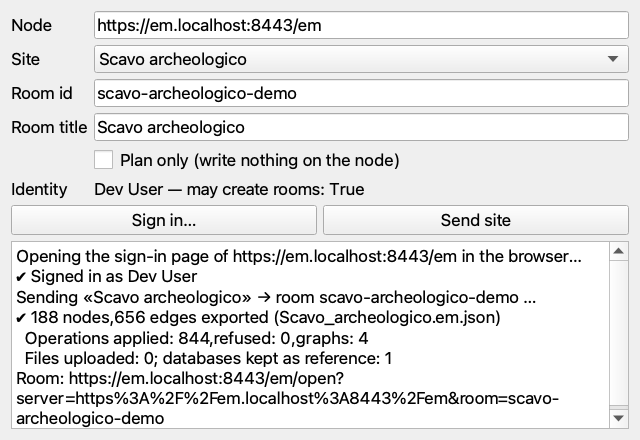
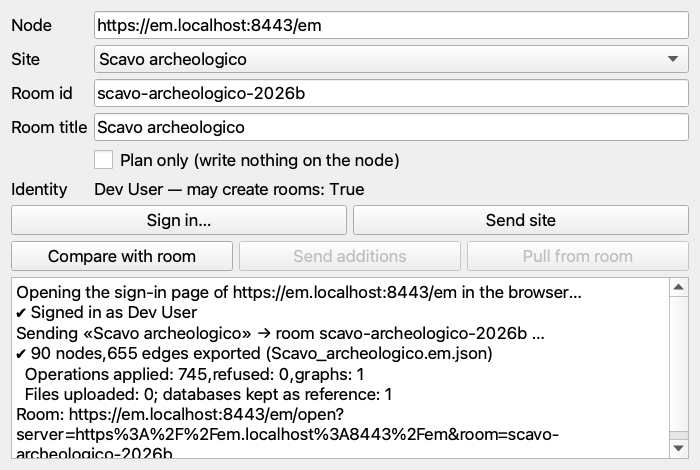
docs(stratigraph): tutorial 32 — grafo unico, confronto con la stanza, invio delle aggiunte e pull, nelle dieci lingue
Nella sezione «Inviare un sito a una stanza StratiGraph»:
- il primo punto di «Cosa viene inviato» diceva «un grafo per saggio»: ora
  il sito va come un solo grafo, così i rapporti fra unità di saggi
  diversi viaggiano con il resto;
- la Fig. 8 rifatta con l'invio a grafo unico sul dev-stack (90 nodi, 655
  archi, 745 operazioni applicate, 0 rifiutate), didascalia aggiornata;
- sottosezione nuova «Lavorare con una stanza che ha già dei dati»:
  Compare with room, Send additions (solo le aggiunte; un campo diverso si
  mostra e non si invia; quello che c'è solo nella stanza non si tocca),
  Pull from room (schede riconosciute per identificativo, conferma se si
  toglierebbero rapporti locali), la ricostruzione di un sito in un
  database che non lo ha e le unità CON da rigenerare con «Genera
  continuità»; Fig. 9 con un confronto vero (US nuova e definizione
  rivista nella stanza, US nuova di pyArchInit da inviare).

STRATIGRAPH_INTEGRATION.md: client API all'85%, autenticazione e rinnovo
del token fatti, riga nuova «Lettura delle modifiche dalla stanza» (con la
prova di ricostruzione: 50 unità su 51, manca solo la CON generata),
query dello stato con il confronto; mancano il feed incrementale e i
file binari dal bucket.

diff --git a/docs/tutorials/el/32_stratigraph_sync.md b/docs/tutorials/el/32_stratigraph_sync.md
@@ -235,11 +235,11 @@ $PYARCHINIT_HOME/stratigraph_sync_queue.sqlite
 
 ![Παράθυρο Send site to a room](images/32_stratigraph_sync/07_send_site_dialog.png)
 
-> **Fig. 8**: Το παράθυρο μετά τη σύνδεση και την αποστολή της θέσης-παραδείγματος σε κόμβο ανάπτυξης: 844 λειτουργίες εφαρμόστηκαν, 0 απορρίφθηκαν, η βάση δεδομένων κρατήθηκε ως αναφορά
+> **Fig. 8**: Το παράθυρο μετά τη σύνδεση και την αποστολή της θέσης-παραδείγματος σε κόμβο ανάπτυξης: 745 λειτουργίες εφαρμόστηκαν, 0 απορρίφθηκαν, η βάση δεδομένων κρατήθηκε ως αναφορά
 
 ### Τι αποστέλλεται
 
-- Ο γράφος της θέσης, ο ίδιος με την εξαγωγή Extended Matrix (οδηγός 36): ένας γράφος ανά τομή όταν η θέση έχει περισσότερες από μία.
+- Ο γράφος ολόκληρης της θέσης, ως ένας γράφος ακόμη κι όταν η θέση έχει πολλές τομές: έτσι οι σχέσεις μεταξύ μονάδων διαφορετικών τομών ταξιδεύουν μαζί με τα υπόλοιπα.
 - Τα αρχεία που αναφέρει ο γράφος ανεβαίνουν μία μόνο φορά. Η εκ νέου αποστολή της ίδιας θέσης δεν διπλασιάζει τίποτα.
 - **Τα αρχεία βάσεων δεδομένων δεν ανεβαίνουν ποτέ** (sqlite, spatialite, gpkg): στην αίθουσα μένει μόνο μια αναφορά. Οι άλλες θέσεις της βάσης σας μένουν στον υπολογιστή σας.
 - Ο κωδικός πρόσβασης δεν περνά ποτέ από το pyArchInit: πληκτρολογείται μόνο στη σελίδα του κόμβου. Το διακριτικό πρόσβασης μένει στη μνήμη και χάνεται όταν κλείσει το παράθυρο.
@@ -252,6 +252,20 @@ $PYARCHINIT_HOME/stratigraph_sync_queue.sqlite
 python scripts/stratigraph_send_site.py --db ~/pyarchinit_5/pyarchinit_DB_folder/pyarchinit_db.sqlite \
     --site "Scavo archeologico" --node https://nodo.example.org/em --room scavo-2026 --dry-run
 ```
+
+### Εργασία με αίθουσα που έχει ήδη δεδομένα
+
+Όταν στην αίθουσα δουλεύουν και άλλοι (EMStudio, StratiField, EM Tools), μετά τη σύνδεση:
+
+1. Το **Compare with room** συγκρίνει τη θέση με την αίθουσα και προς τις δύο κατευθύνσεις, χωρίς να γράψει τίποτα: τι νέο έχει η αίθουσα για το pyArchInit (νέες μονάδες, αλλαγμένοι ορισμοί, σχέσεις) και τι προσθέτει το pyArchInit στην αίθουσα.
+2. Το **Send additions** στέλνει μόνο τις προσθήκες της θέσης: νέες μονάδες και σχέσεις. Ένα πεδίο που διαφέρει εμφανίζεται αλλά δεν στέλνεται, γιατί στην αίθουσα μπορεί να είναι η πιο πρόσφατη αλλαγή ενός συναδέλφου· ό,τι υπάρχει μόνο στην αίθουσα δεν αγγίζεται ποτέ.
+3. Το **Pull from room** φέρνει την αίθουσα στα δελτία του pyArchInit (ΣΜ, ορισμοί, περιοδολόγηση, σχέσεις), αναγνωρίζοντας κάθε δελτίο από το αναγνωριστικό του. Αν το pull αφαιρούσε τοπικές σχέσεις που η αίθουσα δεν γνωρίζει, το παράθυρο τις απαριθμεί και ζητά επιβεβαίωση.
+
+Με το **Pull from room** μπορεί επίσης να ανασυσταθεί μια θέση σε βάση δεδομένων που δεν την έχει: οι μονάδες επιστρέφουν με αριθμό, τύπο, ορισμούς και περιοδολόγηση. Οι μονάδες συνέχειας (CON) δεν ταξιδεύουν: το pyArchInit τις αναπαράγει με το **Genera continuita**.
+
+![Σύγκριση με την αίθουσα](images/32_stratigraph_sync/08_compare_with_room.png)
+
+> **Fig. 9**: Η σύγκριση με μια αίθουσα όπου δούλεψαν και στο EMStudio: μια νέα ΣΜ και ένας αναθεωρημένος ορισμός στην αίθουσα, μια νέα ΣΜ του pyArchInit προς αποστολή
 
 ### Συχνά προβλήματα
 

diff --git a/docs/tutorials/ar/32_stratigraph_sync.md b/docs/tutorials/ar/32_stratigraph_sync.md
@@ -235,11 +235,11 @@ $PYARCHINIT_HOME/stratigraph_sync_queue.sqlite
 
 ![نافذة Send site to a room](images/32_stratigraph_sync/07_send_site_dialog.png)
 
-> **Fig. 8**: النافذة بعد تسجيل الدخول وإرسال الموقع النموذجي إلى عقدة تطوير: 844 عملية مطبّقة، 0 مرفوضة، وقاعدة البيانات محفوظة كإشارة
+> **Fig. 8**: النافذة بعد تسجيل الدخول وإرسال الموقع النموذجي إلى عقدة تطوير: 745 عملية مطبّقة، 0 مرفوضة، وقاعدة البيانات محفوظة كإشارة
 
 ### ما الذي يُرسل
 
-- مخطط الموقع، وهو نفسه في تصدير Extended Matrix (الدرس 36): مخطط لكل مجسّ عندما يكون للموقع أكثر من واحد.
+- مخطط الموقع كاملاً، كمخطط واحد حتى عندما يكون للموقع عدة مجسّات: هكذا تنتقل العلاقات بين وحدات من مجسّات مختلفة مع البقية.
 - الملفات التي يذكرها المخطط تُرفع مرة واحدة فقط. إعادة إرسال الموقع نفسه لا تكرر شيئاً.
 - **ملفات قواعد البيانات لا تُرفع أبداً** (sqlite وspatialite وgpkg): تبقى في الغرفة إشارة إليها فقط. تبقى المواقع الأخرى في قاعدة بياناتك على حاسوبك.
 - كلمة المرور لا تمر أبداً عبر pyArchInit: تُكتب فقط في صفحة العقدة. يبقى رمز الوصول في الذاكرة ويزول عند إغلاق النافذة.
@@ -252,6 +252,20 @@ $PYARCHINIT_HOME/stratigraph_sync_queue.sqlite
 python scripts/stratigraph_send_site.py --db ~/pyarchinit_5/pyarchinit_DB_folder/pyarchinit_db.sqlite \
     --site "Scavo archeologico" --node https://nodo.example.org/em --room scavo-2026 --dry-run
 ```
+
+### العمل مع غرفة تحتوي بيانات بالفعل
+
+عندما يعمل آخرون أيضاً في الغرفة (EMStudio وStratiField وEM Tools)، بعد تسجيل الدخول:
+
+1. يقارن **Compare with room** الموقع بالغرفة في الاتجاهين دون كتابة أي شيء: ما الجديد في الغرفة بالنسبة إلى pyArchInit (وحدات جديدة، تعريفات معدّلة، علاقات) وما يضيفه pyArchInit إلى الغرفة.
+2. يرسل **Send additions** إضافات الموقع فقط: الوحدات والعلاقات الجديدة. الحقل المختلف يُعرض ولا يُرسل، لأنه قد يكون في الغرفة التعديل الأحدث لزميل؛ وما يوجد في الغرفة وحدها لا يُمسّ أبداً.
+3. ينقل **Pull from room** الغرفة إلى بطاقات pyArchInit (الوحدات، التعريفات، التحقيب، العلاقات)، متعرّفاً على كل بطاقة بمعرّفها. وإذا كان السحب سيحذف علاقات محلية لا تعرفها الغرفة، تعرضها النافذة وتطلب التأكيد.
+
+يمكن أيضاً بواسطة **Pull from room** إعادة بناء موقع في قاعدة بيانات لا تحتويه: تعود الوحدات برقمها ونوعها وتعريفاتها وتحقيبها. وحدات الاستمرارية (CON) لا تنتقل: يعيد pyArchInit توليدها بواسطة **Genera continuita**.
+
+![المقارنة مع الغرفة](images/32_stratigraph_sync/08_compare_with_room.png)
+
+> **Fig. 9**: المقارنة مع غرفة عُمل فيها أيضاً في EMStudio: وحدة جديدة وتعريف منقّح في الغرفة، ووحدة جديدة من pyArchInit للإرسال
 
 ### مشكلات شائعة
 

diff --git a/STRATIGRAPH_INTEGRATION.md b/STRATIGRAPH_INTEGRATION.md
@@ -318,10 +318,11 @@ File: `modules/db/database_sync.py` (1290 righe)
 
 | Sotto-requisito | Stato | % | Note |
 |-----------------|-------|---|------|
-| Client API StratiGraph | `[PARZIALE]` | 60% | `modules/stratigraph/node_client.py`: `auth_config`, `whoami`, invio di un sito in una stanza. Manca la lettura delle modifiche dalla stanza (`GET …/changes`, `…/ops`) |
-| Autenticazione token-based | `[FATTO]` | 80% | Login nativo Authorization Code + PKCE sul Keycloak del nodo; manca il rinnovo automatico (vedi 3.7) |
+| Client API StratiGraph | `[FATTO]` | 85% | `modules/stratigraph/node_client.py` (accesso, invio) e `room_sync.py` (documento della stanza, confronto, aggiunte, pull). Manca il feed incrementale `GET …/changes`, `…/ops` (oggi si rilegge il documento) |
+| Autenticazione token-based | `[FATTO]` | 100% | Login nativo Authorization Code + PKCE sul Keycloak del nodo; `NodeSession` rinnova da sola il token con il refresh token |
+| Lettura delle modifiche dalla stanza | `[FATTO]` | 80% | `room_sync.pull_room`: la stanza nelle schede native via ingestore, a secco di default, conflitti classificati (formato / veri), conferma se si toglierebbero rapporti locali. Verificato: un sito ricostruito da una stanza in un database vuoto (50 unità su 51, manca solo la continuità CON generata). Mancano i file binari dal bucket |
 | Invio dati al nodo (era «submit bundle») | `[FATTO]` | 100% | Sito → em.json → `s3dgraphy.room_import` (stanza creata, file caricati una volta, grafo come operazioni). I file di database restano riferimenti |
-| Query stato sync | `[PARZIALE]` | 50% | Il report dell'invio dice operazioni applicate/rifiutate; il documento della stanza si rilegge con `GET …/document` (cursore) |
+| Query stato sync | `[FATTO]` | 80% | `room_sync.contribution`: cosa aggiunge pyArchInit, cosa ha di nuovo la stanza, cosa c'è solo nella stanza; `push_new` invia solo le aggiunte. Senza base comune i campi diversi si mostrano e non si inviano |
 | Recupero errori validazione | `[PARZIALE]` | 50% | `refused` e `conflicts` delle operazioni arrivano nel report; non ancora mostrati riga per riga nella UI |
 | Retry su fallimento | `[FATTO]` | 100% | Backoff esponenziale in SyncOrchestrator; l'invio a una stanza è idempotente (un secondo invio non duplica) |
 
@@ -370,7 +371,7 @@ File: `modules/db/database_sync.py` (1290 righe)
 | Auth locale (offline) | `[FATTO]` | 90% | `user_management_dialog.py` + `permission_handler.py` |
 | Auth token StratiGraph | `[FATTO]` | 90% | OIDC Authorization Code + PKCE (S256) con il client nativo che il nodo indica (`native_client_id`), ritorno su `127.0.0.1`; nessuna password in pyArchInit. Da chiedere a WP4 un client Keycloak dedicato a pyArchInit |
 | Token storage sicuro | `[FATTO]` | 100% | Per scelta il token **non viene salvato**: resta in memoria nella finestra |
-| Token refresh automatico | `[DA FARE]` | 20% | Il refresh token arriva dal nodo ma non è ancora usato: scaduto il token si rifà l'accesso |
+| Token refresh automatico | `[FATTO]` | 100% | `NodeSession.access_token()` rinnova a meno di 30 s dalla scadenza (verificato sul Keycloak del dev-stack); un rinnovo rifiutato chiede un nuovo accesso |
 | Fallback offline su scadenza token | `[DA FARE]` | 0% | Logica da integrare nella state machine |
 
 **File da creare**: `modules/stratigraph/auth_stratigraph.py`

diff --git a/docs/tutorials/de/32_stratigraph_sync.md b/docs/tutorials/de/32_stratigraph_sync.md
@@ -235,11 +235,11 @@ Ab Version **5.14.0-alpha** bringt die Schaltflaeche **Send site to a room...** 
 
 ![Fenster Send site to a room](images/32_stratigraph_sync/07_send_site_dialog.png)
 
-> **Fig. 8**: Das Fenster nach der Anmeldung und dem Senden der Beispiel-Fundstelle an einen Entwicklungsknoten: 844 Operationen angewendet, 0 abgelehnt, die Datenbank als Verweis behalten
+> **Fig. 8**: Das Fenster nach der Anmeldung und dem Senden der Beispiel-Fundstelle an einen Entwicklungsknoten: 745 Operationen angewendet, 0 abgelehnt, die Datenbank als Verweis behalten
 
 ### Was gesendet wird
 
-- Der Graph der Fundstelle, derselbe wie beim Extended-Matrix-Export (Tutorial 36): ein Graph pro Sondage, wenn die Fundstelle mehrere hat.
+- Der Graph der ganzen Fundstelle, als ein einziger Graph auch bei mehreren Sondagen: so reisen die Beziehungen zwischen Einheiten verschiedener Sondagen mit.
 - Vom Graphen zitierte Dateien werden nur einmal hochgeladen. Erneutes Senden derselben Fundstelle verdoppelt nichts.
 - **Datenbankdateien werden nie hochgeladen** (sqlite, spatialite, gpkg): im Raum bleibt nur ein Verweis. Die anderen Fundstellen der Datenbank bleiben auf dem eigenen Rechner.
 - Das Passwort geht nie durch pyArchInit: es wird nur auf der Seite des Knotens eingegeben. Das Zugangstoken bleibt im Speicher und verfaellt beim Schliessen des Fensters.
@@ -252,6 +252,20 @@ Dieselbe Uebertragung ohne QGIS (ohne `--dry-run` wird wirklich geschrieben; ohn
 python scripts/stratigraph_send_site.py --db ~/pyarchinit_5/pyarchinit_DB_folder/pyarchinit_db.sqlite \
     --site "Scavo archeologico" --node https://nodo.example.org/em --room scavo-2026 --dry-run
 ```
+
+### Mit einem Raum arbeiten, der bereits Daten enthaelt
+
+Wenn auch andere im Raum arbeiten (EMStudio, StratiField, EM Tools), nach der Anmeldung:
+
+1. **Compare with room** vergleicht die Fundstelle mit dem Raum in beide Richtungen, ohne etwas zu schreiben: was der Raum Neues fuer pyArchInit hat (neue Einheiten, geaenderte Definitionen, Beziehungen) und was pyArchInit dem Raum hinzufuegt.
+2. **Send additions** sendet nur die Ergaenzungen der Fundstelle: neue Einheiten und Beziehungen. Ein abweichendes Feld wird angezeigt, aber nicht gesendet, denn im Raum kann es die neuere Aenderung eines Kollegen sein; was nur im Raum ist, wird nie angetastet.
+3. **Pull from room** bringt den Raum in die Datenblaetter von pyArchInit (SE, Definitionen, Periodisierung, Beziehungen) und erkennt jedes Blatt an seiner Kennung. Wuerde der Pull lokale Beziehungen entfernen, die der Raum nicht kennt, listet das Fenster sie auf und fragt nach Bestaetigung.
+
+Mit **Pull from room** laesst sich auch eine Fundstelle in einer Datenbank wiederherstellen, die sie nicht enthaelt: die Einheiten kommen mit Nummer, Typ, Definitionen und Periodisierung zurueck. Kontinuitaetseinheiten (CON) reisen nicht mit: pyArchInit erzeugt sie mit **Genera continuita** neu.
+
+![Vergleich mit dem Raum](images/32_stratigraph_sync/08_compare_with_room.png)
+
+> **Fig. 9**: Der Vergleich mit einem Raum, in dem auch in EMStudio gearbeitet wurde: eine neue SE und eine ueberarbeitete Definition im Raum, eine neue SE aus pyArchInit zum Senden
 
 ### Haeufige Probleme
 

diff --git a/docs/tutorials/fr/32_stratigraph_sync.md b/docs/tutorials/fr/32_stratigraph_sync.md
@@ -235,11 +235,11 @@ Depuis la version **5.14.0-alpha**, le bouton **Send site to a room...** apporte
 
 ![Fenetre Send site to a room](images/32_stratigraph_sync/07_send_site_dialog.png)
 
-> **Fig. 8**: La fenetre apres la connexion et l'envoi du site d'exemple a un noeud de developpement : 844 operations appliquees, 0 refusees, la base de donnees gardee comme reference
+> **Fig. 8**: La fenetre apres la connexion et l'envoi du site d'exemple a un noeud de developpement : 745 operations appliquees, 0 refusees, la base de donnees gardee comme reference
 
 ### Ce qui est envoye
 
-- Le graphe du site, le meme que l'export Extended Matrix (tutoriel 36) : un graphe par sondage lorsque le site en compte plusieurs.
+- Le graphe du site entier, en un seul graphe meme quand le site compte plusieurs sondages : ainsi les relations entre unites de sondages differents voyagent avec le reste.
 - Les fichiers cites par le graphe sont televerses une seule fois. Renvoyer le meme site ne duplique rien.
 - **Les fichiers de base de donnees ne sont jamais televerses** (sqlite, spatialite, gpkg) : la salle n'en garde qu'une reference. Les autres sites de la base restent sur votre ordinateur.
 - Le mot de passe ne passe jamais par pyArchInit : il se saisit uniquement sur la page du noeud. Le jeton d'acces reste en memoire et disparait a la fermeture de la fenetre.
@@ -252,6 +252,20 @@ Le meme envoi sans QGIS (sans `--dry-run` il ecrit reellement ; sans `--token` i
 python scripts/stratigraph_send_site.py --db ~/pyarchinit_5/pyarchinit_DB_folder/pyarchinit_db.sqlite \
     --site "Scavo archeologico" --node https://nodo.example.org/em --room scavo-2026 --dry-run
 ```
+
+### Travailler avec une salle qui contient deja des donnees
+
+Quand d'autres travaillent aussi dans la salle (EMStudio, StratiField, EM Tools), apres la connexion :
+
+1. **Compare with room** compare le site et la salle dans les deux sens, sans rien ecrire : ce que la salle a de nouveau pour pyArchInit (nouvelles unites, definitions modifiees, relations) et ce que pyArchInit ajoute a la salle.
+2. **Send additions** n'envoie que les ajouts du site : nouvelles unites et relations. Un champ different est affiche mais pas envoye, car dans la salle il peut s'agir de la modification la plus recente d'un collegue ; ce qui n'existe que dans la salle n'est jamais touche.
+3. **Pull from room** apporte la salle dans les fiches de pyArchInit (US, definitions, periodisation, relations), en reconnaissant chaque fiche par son identifiant. Si le pull supprimait des relations locales que la salle ne connait pas, la fenetre les liste et demande confirmation.
+
+**Pull from room** permet aussi de reconstruire un site dans une base qui ne l'a pas : les unites reviennent avec numero, type, definitions et periodisation. Les unites de continuite (CON) ne voyagent pas : pyArchInit les regenere avec **Genera continuita**.
+
+![Comparaison avec la salle](images/32_stratigraph_sync/08_compare_with_room.png)
+
+> **Fig. 9**: La comparaison avec une salle ou l'on a aussi travaille dans EMStudio : une nouvelle US et une definition revue dans la salle, une nouvelle US de pyArchInit a envoyer
 
 ### Problemes frequents
 

diff --git a/docs/tutorials/ca/32_stratigraph_sync.md b/docs/tutorials/ca/32_stratigraph_sync.md
@@ -235,11 +235,11 @@ Des de la versio **5.14.0-alpha** el boto **Send site to a room...** porta un ja
 
 ![Finestra Send site to a room](images/32_stratigraph_sync/07_send_site_dialog.png)
 
-> **Fig. 8**: La finestra despres de l'acces i l'enviament del jaciment d'exemple a un node de desenvolupament: 844 operacions aplicades, 0 rebutjades, la base de dades conservada com a referencia
+> **Fig. 8**: La finestra despres de l'acces i l'enviament del jaciment d'exemple a un node de desenvolupament: 745 operacions aplicades, 0 rebutjades, la base de dades conservada com a referencia
 
 ### Que s'envia
 
-- El graf del jaciment, el mateix de l'exportacio Extended Matrix (tutorial 36): un graf per sondeig quan el jaciment en te mes d'un.
+- El graf del jaciment sencer, com un sol graf encara que el jaciment tingui diversos sondeigs: aixi les relacions entre unitats de sondeigs diferents viatgen amb la resta.
 - Els fitxers citats pel graf es pugen una sola vegada. Tornar a enviar el mateix jaciment no duplica res.
 - **Els fitxers de base de dades no es pugen mai** (sqlite, spatialite, gpkg): a la sala nomes en queda una referencia. Els altres jaciments de la base de dades es queden al vostre ordinador.
 - La contrasenya no passa mai per pyArchInit: nomes s'escriu a la pagina del node. El token d'acces queda en memoria i es perd en tancar la finestra.
@@ -252,6 +252,20 @@ El mateix enviament sense QGIS (sense `--dry-run` escriu de debo; sense `--token
 python scripts/stratigraph_send_site.py --db ~/pyarchinit_5/pyarchinit_DB_folder/pyarchinit_db.sqlite \
     --site "Scavo archeologico" --node https://nodo.example.org/em --room scavo-2026 --dry-run
 ```
+
+### Treballar amb una sala que ja te dades
+
+Quan a la sala hi treballen tambe altres (EMStudio, StratiField, EM Tools), despres d'accedir:
+
+1. **Compare with room** compara el jaciment amb la sala en els dos sentits, sense escriure res: que te de nou la sala per a pyArchInit (unitats noves, definicions canviades, relacions) i que hi afegeix pyArchInit.
+2. **Send additions** envia nomes les addicions del jaciment: unitats i relacions noves. Un camp diferent es mostra pero no s'envia, perque a la sala pot ser la modificacio mes recent d'un company; el que nomes es a la sala no es toca mai.
+3. **Pull from room** porta la sala a les fitxes de pyArchInit (UE, definicions, perioditzacio, relacions), reconeixent cada fitxa pel seu identificador. Si el pull tragues relacions locals que la sala no coneix, la finestra les enumera i demana confirmacio.
+
+Amb **Pull from room** tambe es pot reconstruir un jaciment en una base de dades que no el te: les unitats tornen amb numero, tipus, definicions i perioditzacio. Les unitats de continuitat (CON) no viatgen: pyArchInit les regenera amb **Genera continuita**.
+
+![Comparacio amb la sala](images/32_stratigraph_sync/08_compare_with_room.png)
+
+> **Fig. 9**: La comparacio amb una sala on tambe s'ha treballat a EMStudio: una UE nova i una definicio revisada a la sala, una UE nova de pyArchInit per enviar
 
 ### Problemes frequents
 

diff --git a/docs/tutorials/es/32_stratigraph_sync.md b/docs/tutorials/es/32_stratigraph_sync.md
@@ -235,11 +235,11 @@ Desde la version **5.14.0-alpha** el boton **Send site to a room...** lleva un s
 
 ![Ventana Send site to a room](images/32_stratigraph_sync/07_send_site_dialog.png)
 
-> **Fig. 8**: La ventana tras el acceso y el envio del sitio de ejemplo a un nodo de desarrollo: 844 operaciones aplicadas, 0 rechazadas, la base de datos conservada como referencia
+> **Fig. 8**: La ventana tras el acceso y el envio del sitio de ejemplo a un nodo de desarrollo: 745 operaciones aplicadas, 0 rechazadas, la base de datos conservada como referencia
 
 ### Que se envia
 
-- El grafo del sitio, el mismo de la exportacion Extended Matrix (tutorial 36): un grafo por sondeo cuando el sitio tiene mas de uno.
+- El grafo del sitio entero, como un solo grafo aunque el sitio tenga varios sondeos: asi las relaciones entre unidades de sondeos distintos viajan con el resto.
 - Los archivos citados por el grafo se suben una sola vez. Volver a enviar el mismo sitio no duplica nada.
 - **Los archivos de base de datos nunca se suben** (sqlite, spatialite, gpkg): en la sala queda solo una referencia. Los demas sitios de su base de datos se quedan en su ordenador.
 - La contrasena nunca pasa por pyArchInit: se escribe solo en la pagina del nodo. El token de acceso queda en memoria y se pierde al cerrar la ventana.
@@ -252,6 +252,20 @@ El mismo envio sin QGIS (sin `--dry-run` escribe de verdad; sin `--token` abre e
 python scripts/stratigraph_send_site.py --db ~/pyarchinit_5/pyarchinit_DB_folder/pyarchinit_db.sqlite \
     --site "Scavo archeologico" --node https://nodo.example.org/em --room scavo-2026 --dry-run
 ```
+
+### Trabajar con una sala que ya tiene datos
+
+Cuando en la sala trabajan tambien otros (EMStudio, StratiField, EM Tools), despues de acceder:
+
+1. **Compare with room** compara el sitio con la sala en los dos sentidos, sin escribir nada: que tiene de nuevo la sala para pyArchInit (unidades nuevas, definiciones cambiadas, relaciones) y que anade pyArchInit a la sala.
+2. **Send additions** envia solo las adiciones del sitio: unidades y relaciones nuevas. Un campo distinto se muestra pero no se envia, porque en la sala puede ser la modificacion mas reciente de un colega; lo que solo esta en la sala nunca se toca.
+3. **Pull from room** lleva la sala a las fichas de pyArchInit (UE, definiciones, periodizacion, relaciones), reconociendo cada ficha por su identificador. Si el pull quitara relaciones locales que la sala no conoce, la ventana las enumera y pide confirmacion.
+
+Con **Pull from room** tambien se puede reconstruir un sitio en una base de datos que no lo tiene: las unidades vuelven con numero, tipo, definiciones y periodizacion. Las unidades de continuidad (CON) no viajan: pyArchInit las regenera con **Genera continuita**.
+
+![Comparacion con la sala](images/32_stratigraph_sync/08_compare_with_room.png)
+
+> **Fig. 9**: La comparacion con una sala en la que se ha trabajado tambien en EMStudio: una UE nueva y una definicion revisada en la sala, una UE nueva de pyArchInit para enviar
 
 ### Problemas frecuentes
 

diff --git a/docs/tutorials/it/32_stratigraph_sync.md b/docs/tutorials/it/32_stratigraph_sync.md
@@ -235,11 +235,11 @@ Dalla versione **5.14.0-alpha** il pulsante **Send site to a room...** porta un 
 
 ![Finestra Send site to a room](images/32_stratigraph_sync/07_send_site_dialog.png)
 
-> **Fig. 8**: La finestra dopo l'accesso e l'invio del sito di esempio a un nodo di sviluppo: 844 operazioni applicate, 0 rifiutate, il database tenuto come riferimento
+> **Fig. 8**: La finestra dopo l'accesso e l'invio del sito di esempio a un nodo di sviluppo: 745 operazioni applicate, 0 rifiutate, il database tenuto come riferimento
 
 ### Cosa viene inviato
 
-- Il grafo del sito, lo stesso dell'esportazione Extended Matrix (tutorial 36): un grafo per saggio quando il sito ne ha piu d'uno.
+- Il grafo del sito intero, come un solo grafo anche quando il sito ha piu saggi: cosi i rapporti fra unita di saggi diversi viaggiano con il resto.
 - I file citati dal grafo vengono caricati una sola volta. Inviare di nuovo lo stesso sito non duplica niente.
 - **I file di database non vengono mai caricati** (sqlite, spatialite, gpkg): nella stanza resta solo un riferimento. Cosi gli altri siti del database restano sul proprio computer.
 - La password non passa da pyArchInit: si scrive solo nella pagina del nodo. Il token di accesso resta in memoria e si perde chiudendo la finestra.
@@ -252,6 +252,20 @@ Lo stesso invio, senza QGIS (senza `--dry-run` scrive davvero; senza `--token` a
 python scripts/stratigraph_send_site.py --db ~/pyarchinit_5/pyarchinit_DB_folder/pyarchinit_db.sqlite \
     --site "Scavo archeologico" --node https://nodo.example.org/em --room scavo-2026 --dry-run
 ```
+
+### Lavorare con una stanza che ha gia dei dati
+
+Quando nella stanza lavorano anche altri (EMStudio, StratiField, EM Tools), dopo l'accesso:
+
+1. **Compare with room** confronta il sito con la stanza nei due sensi, senza scrivere niente: cosa ha di nuovo la stanza per pyArchInit (unita nuove, definizioni cambiate, rapporti) e cosa aggiunge pyArchInit alla stanza.
+2. **Send additions** invia solo le aggiunte del sito: unita e rapporti nuovi. Un campo diverso viene mostrato ma non inviato, perche nella stanza puo essere la modifica piu recente di un collega; quello che c'e solo nella stanza non viene mai toccato.
+3. **Pull from room** porta la stanza nelle schede di pyArchInit (US, definizioni, periodizzazione, rapporti), riconoscendo ogni scheda dal suo identificativo. Se il pull togliesse rapporti locali che la stanza non conosce, la finestra li elenca e chiede conferma.
+
+Con **Pull from room** si puo anche ricostruire un sito in un database che non lo ha: le unita tornano con numero, tipo, definizioni e periodizzazione. Le unita di continuita (CON) non viaggiano: pyArchInit le rigenera con **Genera continuita**.
+
+![Confronto con la stanza](images/32_stratigraph_sync/08_compare_with_room.png)
+
+> **Fig. 9**: Il confronto con una stanza in cui si e lavorato anche in EMStudio: una US nuova e una definizione rivista nella stanza, una US nuova di pyArchInit da inviare
 
 ### Problemi frequenti
 

diff --git a/docs/tutorials/pt/32_stratigraph_sync.md b/docs/tutorials/pt/32_stratigraph_sync.md
@@ -234,11 +234,11 @@ A partir da versao **5.14.0-alpha** o botao **Send site to a room...** leva um s
 
 ![Janela Send site to a room](images/32_stratigraph_sync/07_send_site_dialog.png)
 
-> **Fig. 8**: A janela depois do acesso e do envio do sitio de exemplo para um no de desenvolvimento: 844 operacoes aplicadas, 0 recusadas, a base de dados mantida como referencia
+> **Fig. 8**: A janela depois do acesso e do envio do sitio de exemplo para um no de desenvolvimento: 745 operacoes aplicadas, 0 recusadas, a base de dados mantida como referencia
 
 ### O que e enviado
 
-- O grafo do sitio, o mesmo da exportacao Extended Matrix (tutorial 36): um grafo por sondagem quando o sitio tem mais do que uma.
+- O grafo do sitio inteiro, como um so grafo mesmo quando o sitio tem varias sondagens: assim as relacoes entre unidades de sondagens diferentes viajam com o resto.
 - Os ficheiros citados pelo grafo sao carregados uma so vez. Enviar de novo o mesmo sitio nao duplica nada.
 - **Os ficheiros de base de dados nunca sao carregados** (sqlite, spatialite, gpkg): na sala fica apenas uma referencia. Os outros sitios da base de dados ficam no seu computador.
 - A palavra-passe nunca passa pelo pyArchInit: escreve-se apenas na pagina do no. O token de acesso fica em memoria e perde-se ao fechar a janela.
@@ -251,6 +251,20 @@ O mesmo envio sem QGIS (sem `--dry-run` escreve de facto; sem `--token` abre o n
 python scripts/stratigraph_send_site.py --db ~/pyarchinit_5/pyarchinit_DB_folder/pyarchinit_db.sqlite \
     --site "Scavo archeologico" --node https://nodo.example.org/em --room scavo-2026 --dry-run
 ```
+
+### Trabalhar com uma sala que ja tem dados
+
+Quando na sala trabalham tambem outros (EMStudio, StratiField, EM Tools), depois de iniciar sessao:
+
+1. **Compare with room** compara o sitio com a sala nos dois sentidos, sem escrever nada: o que a sala tem de novo para o pyArchInit (unidades novas, definicoes alteradas, relacoes) e o que o pyArchInit acrescenta a sala.
+2. **Send additions** envia apenas as adicoes do sitio: unidades e relacoes novas. Um campo diferente e mostrado mas nao enviado, porque na sala pode ser a alteracao mais recente de um colega; o que existe so na sala nunca e tocado.
+3. **Pull from room** traz a sala para as fichas do pyArchInit (UE, definicoes, periodizacao, relacoes), reconhecendo cada ficha pelo seu identificador. Se o pull retirasse relacoes locais que a sala nao conhece, a janela enumera-as e pede confirmacao.
+
+Com **Pull from room** tambem se pode reconstruir um sitio numa base de dados que nao o tem: as unidades voltam com numero, tipo, definicoes e periodizacao. As unidades de continuidade (CON) nao viajam: o pyArchInit regenera-as com **Genera continuita**.
+
+![Comparacao com a sala](images/32_stratigraph_sync/08_compare_with_room.png)
+
+> **Fig. 9**: A comparacao com uma sala em que se trabalhou tambem no EMStudio: uma UE nova e uma definicao revista na sala, uma UE nova do pyArchInit para enviar
 
 ### Problemas frequentes
 

diff --git a/docs/tutorials/ro/32_stratigraph_sync.md b/docs/tutorials/ro/32_stratigraph_sync.md
@@ -235,11 +235,11 @@ Incepand cu versiunea **5.14.0-alpha**, butonul **Send site to a room...** aduce
 
 ![Fereastra Send site to a room](images/32_stratigraph_sync/07_send_site_dialog.png)
 
-> **Fig. 8**: Fereastra dupa autentificare si trimiterea sitului de exemplu catre un nod de dezvoltare: 844 de operatii aplicate, 0 refuzate, baza de date pastrata ca referinta
+> **Fig. 8**: Fereastra dupa autentificare si trimiterea sitului de exemplu catre un nod de dezvoltare: 745 de operatii aplicate, 0 refuzate, baza de date pastrata ca referinta
 
 ### Ce se trimite
 
-- Graful sitului, acelasi ca la exportul Extended Matrix (tutorialul 36): cate un graf pentru fiecare sondaj cand situl are mai multe.
+- Graful intregului sit, ca un singur graf chiar daca situl are mai multe sondaje: astfel relatiile dintre unitati din sondaje diferite calatoresc impreuna cu restul.
 - Fisierele citate de graf sunt incarcate o singura data. Retrimiterea aceluiasi sit nu dubleaza nimic.
 - **Fisierele de baza de date nu sunt incarcate niciodata** (sqlite, spatialite, gpkg): in camera ramane doar o referinta. Celelalte situri din baza de date raman pe calculatorul dumneavoastra.
 - Parola nu trece niciodata prin pyArchInit: se scrie doar pe pagina nodului. Tokenul de acces ramane in memorie si se pierde la inchiderea ferestrei.
@@ -252,6 +252,20 @@ Aceeasi trimitere fara QGIS (fara `--dry-run` scrie efectiv; fara `--token` desc
 python scripts/stratigraph_send_site.py --db ~/pyarchinit_5/pyarchinit_DB_folder/pyarchinit_db.sqlite \
     --site "Scavo archeologico" --node https://nodo.example.org/em --room scavo-2026 --dry-run
 ```
+
+### Lucrul cu o camera care contine deja date
+
+Cand in camera lucreaza si altii (EMStudio, StratiField, EM Tools), dupa autentificare:
+
+1. **Compare with room** compara situl cu camera in ambele sensuri, fara sa scrie nimic: ce are nou camera pentru pyArchInit (unitati noi, definitii schimbate, relatii) si ce adauga pyArchInit in camera.
+2. **Send additions** trimite doar adaugirile sitului: unitati si relatii noi. Un camp diferit este afisat, dar nu trimis, pentru ca in camera poate fi modificarea mai recenta a unui coleg; ce exista doar in camera nu este atins niciodata.
+3. **Pull from room** aduce camera in fisele pyArchInit (US, definitii, periodizare, relatii), recunoscand fiecare fisa dupa identificatorul ei. Daca pull-ul ar elimina relatii locale pe care camera nu le cunoaste, fereastra le enumera si cere confirmare.
+
+Cu **Pull from room** se poate si reconstrui un sit intr-o baza de date care nu il are: unitatile revin cu numar, tip, definitii si periodizare. Unitatile de continuitate (CON) nu calatoresc: pyArchInit le regenereaza cu **Genera continuita**.
+
+![Comparatia cu camera](images/32_stratigraph_sync/08_compare_with_room.png)
+
+> **Fig. 9**: Comparatia cu o camera in care s-a lucrat si in EMStudio: o US noua si o definitie revizuita in camera, o US noua din pyArchInit de trimis
 
 ### Probleme frecvente
 

diff --git a/docs/tutorials/en/32_stratigraph_sync.md b/docs/tutorials/en/32_stratigraph_sync.md
@@ -234,11 +234,11 @@ Since version **5.14.0-alpha** the **Send site to a room...** button brings a si
 
 ![Send site to a room window](images/32_stratigraph_sync/07_send_site_dialog.png)
 
-> **Fig. 8**: The window after signing in and sending the sample site to a development node: 844 operations applied, 0 refused, the database kept as a reference
+> **Fig. 8**: The window after signing in and sending the sample site to a development node: 745 operations applied, 0 refused, the database kept as a reference
 
 ### What Is Sent
 
-- The site's graph, the same as the Extended Matrix export (tutorial 36): one graph per trench when the site has more than one.
+- The whole site's graph, as one graph even when the site has several trenches: this way relations between units of different trenches travel with the rest.
 - Files cited by the graph are uploaded once. Sending the same site again duplicates nothing.
 - **Database files are never uploaded** (sqlite, spatialite, gpkg): the room keeps only a reference. The other sites in your database stay on your computer.
 - Your password never passes through pyArchInit: you type it only on the node's page. The access token stays in memory and is gone when the window closes.
@@ -251,6 +251,20 @@ The same transfer without QGIS (without `--dry-run` it really writes; without `-
 python scripts/stratigraph_send_site.py --db ~/pyarchinit_5/pyarchinit_DB_folder/pyarchinit_db.sqlite \
     --site "Scavo archeologico" --node https://nodo.example.org/em --room scavo-2026 --dry-run
 ```
+
+### Working with a Room That Already Holds Data
+
+When others work in the room too (EMStudio, StratiField, EM Tools), after signing in:
+
+1. **Compare with room** compares the site with the room in both directions, writing nothing: what the room has that is new for pyArchInit (new units, changed definitions, relations) and what pyArchInit adds to the room.
+2. **Send additions** sends only the site's additions: new units and relations. A field that differs is shown but not sent, because in the room it may be a colleague's more recent edit; what is only in the room is never touched.
+3. **Pull from room** brings the room into pyArchInit's records (SU, definitions, periodisation, relations), recognising each record by its identifier. If the pull would remove local relations the room does not know, the window lists them and asks for confirmation.
+
+**Pull from room** can also rebuild a site in a database that does not have it: the units come back with number, type, definitions and periodisation. Continuity units (CON) do not travel: pyArchInit regenerates them with **Genera continuita**.
+
+![Compare with room](images/32_stratigraph_sync/08_compare_with_room.png)
+
+> **Fig. 9**: Comparing with a room that was also worked on in EMStudio: a new SU and a revised definition in the room, a new pyArchInit SU to send
 
 ### Common Problems
 
